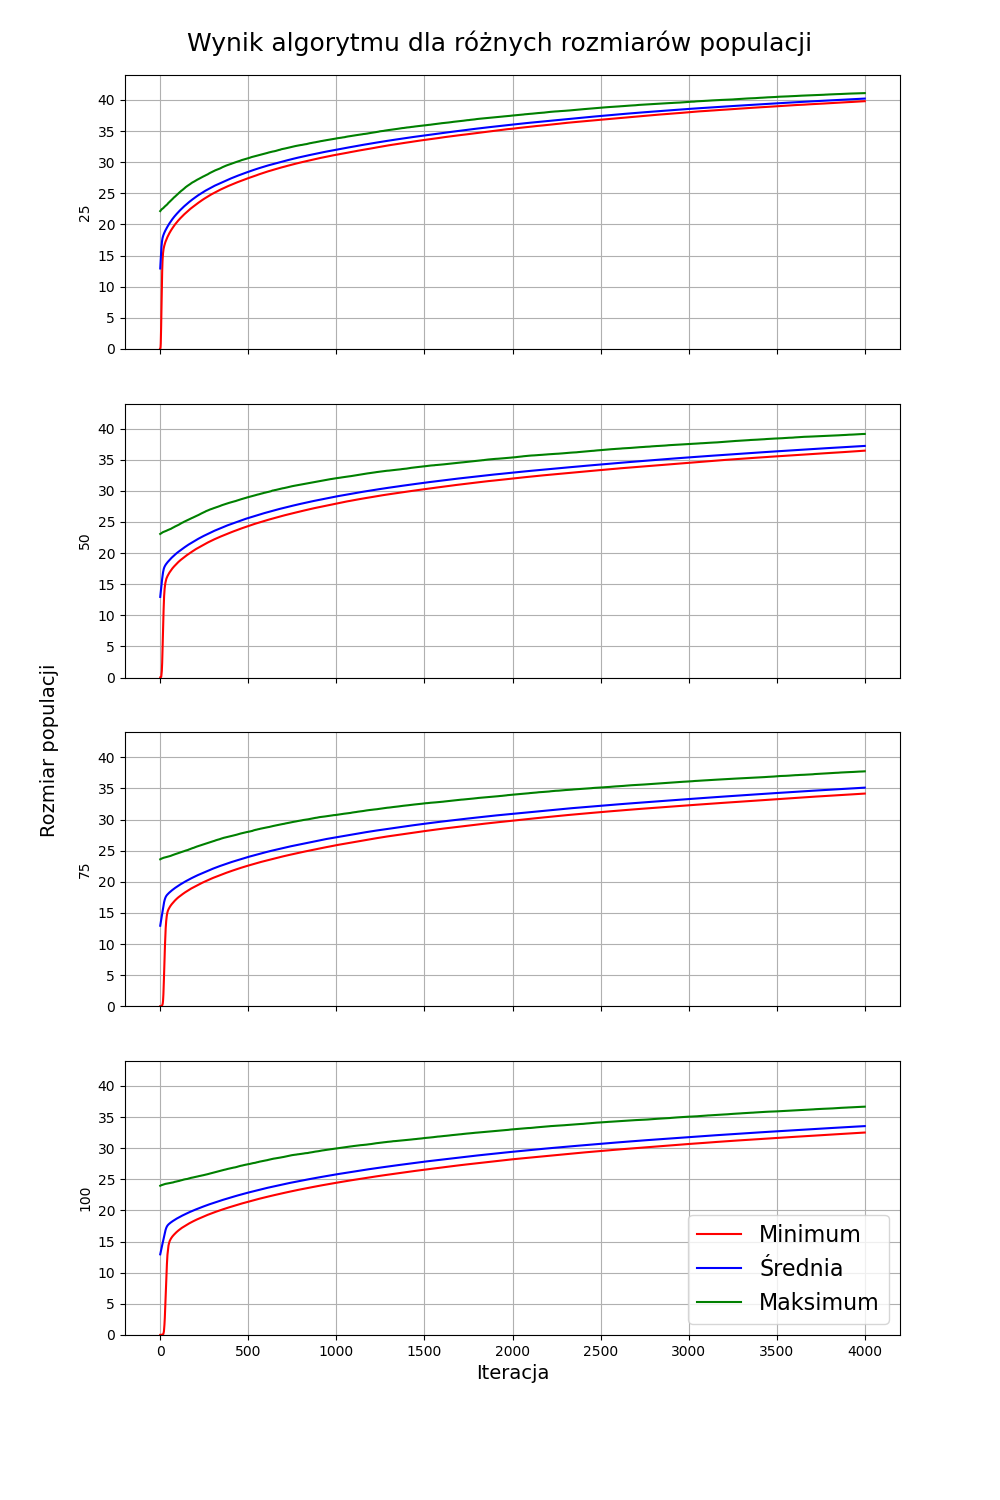
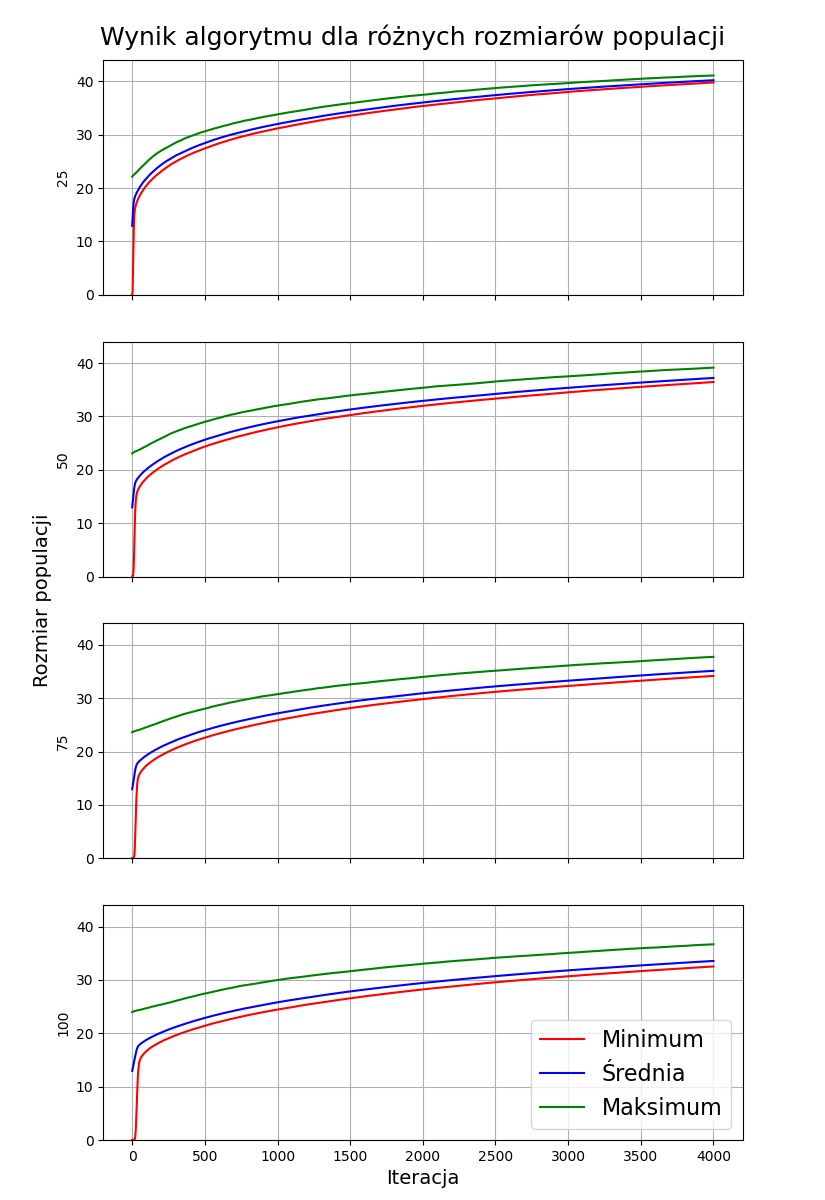
the end is near

diff --git a/data_analysis.py b/data_analysis.py
@@ -20,8 +20,9 @@ def first_test():
     df10000 = pd.read_excel("Dat/RawData_iter_10000.xlsx", index_col=0)
 
     fig1, axs = plt.subplots(7, 3, figsize=(8.25, 11.75), sharey="row", sharex="col")
-    fig1.suptitle("Porównanie składowych i ostatecznej funkcji celu (1000 powtórzeń)", fontsize=16)
-    fig1.subplots_adjust(top=0.95, left=0.1)
+    fig1.suptitle("Porównanie składowych i ostatecznej funkcji celu", fontsize=16)
+    fig1.subplots_adjust(top=0.95, bottom=0.05)
+    fig1.text(0.02, 0.5, 'Liczba iteracji', va='center', rotation='vertical', fontsize=14)
 
     axs[0, 0].hist(df500['Maximum income'], bins=20, rwidth=szerokosc_paskow)
     axs[0, 0].set_ylabel("500")
@@ -66,18 +67,19 @@ def first_test():
 def second_test():
     data4000 = pd.read_excel("Dat/RawData_oneiter_4000.xlsx", index_col=0)
     data10000 = pd.read_excel("Dat/RawData_oneiter_10000.xlsx", index_col=0)
-    fig, axs = plt.subplots(1, 2, figsize=(10, 6), sharey='row')
+    fig, axs = plt.subplots(2, 1, figsize=(8.25, 6), sharey='row')
     fig.suptitle("Zachowanie się granicznych i średniego rozwiązania", fontsize=16)
+    fig.text(0.02, 0.5, 'Funkcja celu [PLN/h]', va='center', rotation='vertical', fontsize=14)
 
-    axs[0].plot(data4000["Minimum Fun"], color="red", label="Minimum")
+    axs[0].plot(data4000.iloc[10:]["Minimum Fun"], color="red", label="Minimum")
     axs[0].plot(data4000["Average Fun"], color="blue", label="Średnia")
     axs[0].plot(data4000["Maximum Fun"], color='green', label="Maksimum")
-    axs[0].set_ylabel("Funkcja celu [PLN/h]", fontsize=12)
-    axs[0].set_xlabel("Iteracja", fontsize=12)
-    axs[1].plot(data10000["Minimum Fun"], color="red", label="Minimum")
+    axs[0].grid()
+    axs[1].plot(data10000.iloc[13:]["Minimum Fun"], color="red", label="Minimum")
     axs[1].plot(data10000["Average Fun"], color="blue", label="Średnia")
     axs[1].plot(data10000["Maximum Fun"], color='green', label="Maksimum")
-    axs[1].set_xlabel("Iteracja", fontsize=12)
+    axs[1].set_xlabel("Iteracja", fontsize=14)
+    axs[1].grid()
     plt.legend(fontsize=16)
     plt.savefig("Plots & Charts/max average min.png")
     plt.show()
@@ -92,7 +94,7 @@ def third_test_hist():
     df100 = pd.read_excel("Dat/RawData_popsize100.xlsx", index_col=0)
 
     fig1, axs = plt.subplots(4, 3, figsize=(9.5, 6.75), sharey="row", sharex="col")
-    fig1.suptitle("Porównanie składowych i ostatecznej funkcji celu (1000 powtórzeń)", fontsize=16)
+    fig1.suptitle("Porównanie funkcji celu dla różnych wielkości populacji", fontsize=16)
     fig1.subplots_adjust(top=0.93, left=0.1)
     fig1.text(0.01, 0.5, 'Wielkość populacji', va='center', rotation='vertical', fontsize=14)
 
@@ -104,7 +106,7 @@ def third_test_hist():
     axs[2, 0].set_ylabel("75")
     axs[3, 0].hist(df100['Maximum income'], bins=20, rwidth=szerokosc_paskow)
     axs[3, 0].set_ylabel("100")
-    axs[3, 0].set_xlabel("Zysk [PLN]", fontsize=12)
+    axs[3, 0].set_xlabel("Przychód [PLN]", fontsize=12)
 
     axs[0, 1].hist(df25['Suboptimal teaching time'], bins=20, rwidth=szerokosc_paskow)
     axs[1, 1].hist(df50['Suboptimal teaching time'], bins=20, rwidth=szerokosc_paskow)
@@ -131,10 +133,10 @@ def third_test_plot():
     data3060 = pd.read_excel("Dat/RawData_popsize_2_75.xlsx", index_col=0)
     data4590 = pd.read_excel("Dat/RawData_popsize_2_100.xlsx", index_col=0)
 
-    fig, axs = plt.subplots(4, 1, figsize=(10, 15), sharex='col')
+    fig, axs = plt.subplots(4, 1, figsize=(8.25, 12), sharex='col')
     fig.suptitle("Wynik algorytmu dla różnych rozmiarów populacji", fontsize=18)
     fig.text(0.04, 0.5, 'Rozmiar populacji', va='center', rotation='vertical', fontsize=14)
-    fig.subplots_adjust(top=0.95)
+    fig.subplots_adjust(top=0.95, bottom=0.05)
 
     axs[0].plot(data1020.iloc[500:]["Minimum Fun"], color="red", label="Minimum")
     axs[0].plot(data1020.iloc[500:]["Average Fun"], color="blue", label="Średnia")
@@ -169,16 +171,17 @@ def third_test_plot():
     return fig
 
 
+# Plot with first 500
 def third_test_plot_vel_2():
     data1020 = pd.read_excel("Dat/RawData_popsize_2_25.xlsx", index_col=0)
     data2040 = pd.read_excel("Dat/RawData_popsize_2_50.xlsx", index_col=0)
     data3060 = pd.read_excel("Dat/RawData_popsize_2_75.xlsx", index_col=0)
     data4590 = pd.read_excel("Dat/RawData_popsize_2_100.xlsx", index_col=0)
 
-    fig, axs = plt.subplots(4, 1, figsize=(10, 15), sharex='col')
+    fig, axs = plt.subplots(4, 1, figsize=(8.25, 12), sharex='col')
     fig.suptitle("Wynik algorytmu dla różnych rozmiarów populacji", fontsize=18)
     fig.text(0.04, 0.5, 'Rozmiar populacji', va='center', rotation='vertical', fontsize=14)
-    fig.subplots_adjust(top=0.95)
+    fig.subplots_adjust(top=0.95, bottom=0.05)
 
     axs[0].plot(data1020["Minimum Fun"], color="red", label="Minimum")
     axs[0].plot(data1020["Average Fun"], color="blue", label="Średnia")
@@ -221,10 +224,10 @@ def fourth_test():
     data4590 = pd.read_excel("Dat/RawData_prob4590.xlsx", index_col=0)
     data00 = pd.read_excel("Dat/RawData_prob00.xlsx", index_col=0)
 
-    fig, axs = plt.subplots(5, 1, figsize=(10, 15), sharex='col')
-    fig.suptitle("Wynik algorytmu dla różnych częstotliwości występowania operatorów", fontsize=18)
-    fig.text(0.04, 0.5, 'Progi zmiany operatora krzyżowania, mutacji', va='center', rotation='vertical', fontsize=14)
-    fig.subplots_adjust(top=0.95)
+    fig, axs = plt.subplots(5, 1, figsize=(8.25, 12), sharex='col')
+    fig.suptitle("Wynik algorytmu dla różnych progów zmiany operatorów", fontsize=18)
+    fig.text(0.02, 0.5, 'Progi zmiany operatora krzyżowania, mutacji', va='center', rotation='vertical', fontsize=14)
+    fig.subplots_adjust(top=0.95, bottom=0.05)
 
     axs[0].plot(data1020.iloc[13:]["Minimum Fun"], color="red", label="Minimum")
     axs[0].plot(data1020["Average Fun"], color="blue", label="Średnia")
@@ -240,7 +243,6 @@ def fourth_test():
     axs[2].plot(data3060["Average Fun"], color="blue", label="Średnia")
     axs[2].plot(data3060["Maximum Fun"], color='green', label="Maksimum")
     axs[2].set_ylabel("1200, 2400")
-    axs[2].set_xlabel("Iteracja", fontsize=14)
     axs[2].grid()
     axs[3].plot(data4590.iloc[13:]["Minimum Fun"], color="red", label="Minimum")
     axs[3].plot(data4590["Average Fun"], color="blue", label="Średnia")
@@ -262,6 +264,7 @@ def fourth_test():
     return fig
 
 
+# Probability of crossover and mutation without first 500 iterations
 def fourth_test_vel2():
     data1020 = pd.read_excel("Dat/RawData_prob1020.xlsx", index_col=0)
     data2040 = pd.read_excel("Dat/RawData_prob2040.xlsx", index_col=0)
@@ -269,10 +272,10 @@ def fourth_test_vel2():
     data4590 = pd.read_excel("Dat/RawData_prob4590.xlsx", index_col=0)
     data00 = pd.read_excel("Dat/RawData_prob00.xlsx", index_col=0)
 
-    fig, axs = plt.subplots(5, 1, figsize=(10, 15), sharex='col')
-    fig.suptitle("Wynik algorytmu dla różnych częstotliwości występowania operatorów", fontsize=18)
-    fig.text(0.04, 0.5, 'Progi zmiany operatora krzyżowania, mutacji', va='center', rotation='vertical', fontsize=14)
-    fig.subplots_adjust(top=0.95)
+    fig, axs = plt.subplots(5, 1, figsize=(8.25, 12), sharex='col')
+    fig.suptitle("Wynik algorytmu dla różnych progów zmiany operatorów", fontsize=18)
+    fig.text(0.02, 0.5, 'Progi zmiany operatora krzyżowania, mutacji', va='center', rotation='vertical', fontsize=14)
+    fig.subplots_adjust(top=0.95, bottom=0.05)
 
     axs[0].plot(data1020.iloc[500:]["Minimum Fun"], color="red", label="Minimum")
     axs[0].plot(data1020.iloc[500:]["Average Fun"], color="blue", label="Średnia")
@@ -308,12 +311,14 @@ def fourth_test_vel2():
     return fig
 
 
-# Wpływ początkowej generacji rozwiązań na końcowe rozwiązanie
+# Influence of initial population on final solution
 def controversial_test():
     df4000 = pd.read_excel("Dat/RawData_iter_4000.xlsx", index_col=0)
 
-    fig, axs = plt.subplots(2, 1, figsize=(9.6, 10.6))
-    axs[0].set_title("Zależność końcowego najlepszego rozwiązania od początkowego najlepszego rozwiązania", fontweight='bold')
+    fig, axs = plt.subplots(2, 1, figsize=(8.25, 9))
+    fig.subplots_adjust(top=0.95, bottom=0.05)
+
+    axs[0].set_title("Końcowego najlepsze rozwiązanie a początkowe najlepsze rozwiązanie", fontweight='bold')
     axs[0].scatter(df4000["Initial maximum"], df4000["Final maximum"], s=5)
     axs[0].grid()
     z = np.polyfit(df4000["Initial maximum"], df4000["Final maximum"], 1)
@@ -325,7 +330,7 @@ def controversial_test():
     axs[0].set_xlabel("Początkowe najlepsze rozwiązanie [PLN/h]")
     axs[0].set_ylabel("Końcowe najlepsze rozwiązanie [PLN/h]")
 
-    axs[1].set_title("Zależność końcowego średniego rozwiązania od początkowego średniego rozwiązania", fontweight='bold')
+    axs[1].set_title("Końcowe średnie rozwiązanie a początkowe średnie rozwiązanie", fontweight='bold')
     axs[1].scatter(df4000["Initial average"], df4000["Final average"], s=5)
     axs[1].grid()
     z = np.polyfit(df4000["Initial average"], df4000["Final average"], 1)
@@ -346,16 +351,17 @@ def optimized_performance():
     data1020 = pd.read_excel("Dat/RawData_final_chyba.xlsx", index_col=0)
 
     fig, axs = plt.subplots(1, 1, figsize=(8, 6), sharex='col')
-    fig.suptitle("Wynik algorytmu dla optymlanych parametrów", fontsize=18)
+    fig.suptitle("Wynik algorytmu dla wybranych najlepszych parametrów", fontsize=18)
 
     axs.plot(data1020.iloc[500:]["Minimum Fun"], color="red", label="Minimum")
     axs.plot(data1020.iloc[500:]["Average Fun"], color="blue", label="Średnia")
     axs.plot(data1020.iloc[500:]["Maximum Fun"], color='green', label="Maksimum")
-    axs.set_ylabel("Funkcja celu [PLN/h]")
+    axs.set_ylabel("Funkcja celu [PLN/h]", fontsize=14)
     axs.set_ylim([27, 44])
     axs.grid()
+    axs.set_xlabel("Iteracja", fontsize=14)
 
-    plt.legend(fontsize=16)
+    plt.legend(loc="lower right", fontsize=16)
 
     plt.savefig("Plots & Charts/optymalność.png")
     plt.show()
@@ -363,4 +369,4 @@ def optimized_performance():
     return fig
 
 
-a = optimized_performance()
+a = third_test_hist()
